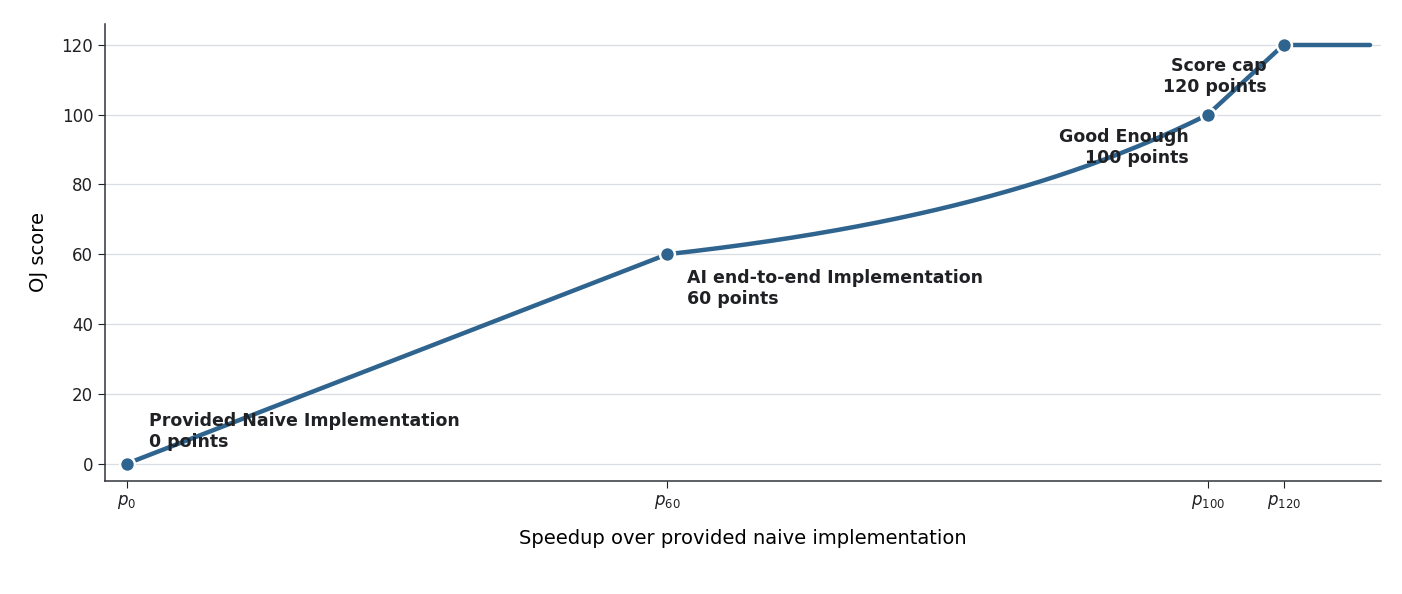
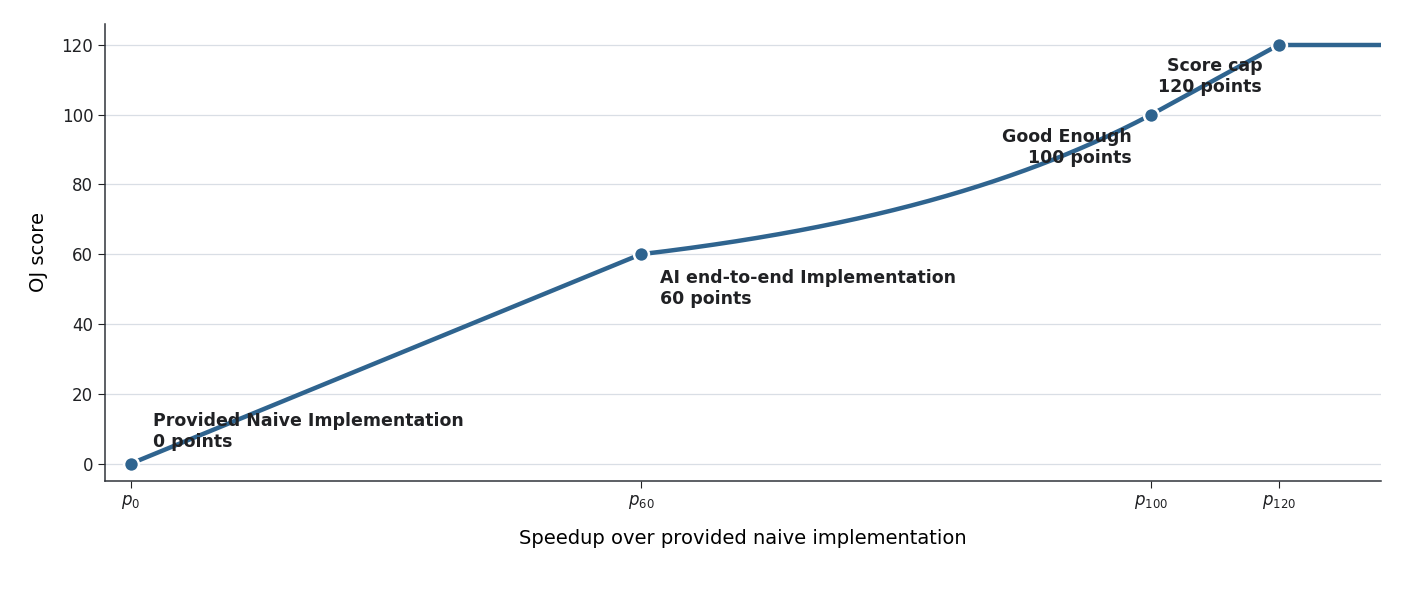
doc(lab2+lab3): update oj curve and polish some statements

diff --git a/docs/lab/Lab3-GDN-Prefill/index.md b/docs/lab/Lab3-GDN-Prefill/index.md
@@ -428,6 +428,28 @@ hpc submit -p lab3 "nsys profile -o <output_name> python evaluation/run.py"
 
 ## OJ 自动评测
 
+!!! info "OJ 评分指标"
+
+    OJ 总体采用与 Lab 2 类似的分段曲线进行评分。对于每个 case，横轴定义为提交实现相对于 100 分 checkpoint 的加速比：
+
+    $$
+    p=\frac{t_{100}}{t},
+    $$
+
+    其中，$t$ 为提交实现的核心计算时间，$t_{100}$ 为该 case 的最快的开源实现对应的运行时间。性能超过最快的开源实现时 $p>1$，并进入 100～120 分的奖励区间。60 分 turning point 为 $p_{60}=t_{100}/t_{60}$。
+
+    8 个公开 case 的 60 分和 100 分 turning point 如下，表中时间单位均为 ms：
+
+    | Checkpoint | `short_tail_state` | `chain_equal` | `parallel_equal` | `parallel_gva` | `long_low_gva` | `batch_split_gva` | `wide_gva_state` | `deep_gva_state` |
+    | --- | ---: | ---: | ---: | ---: | ---: | ---: | ---: | ---: |
+    | 60 分 | 0.573952 | 3.999968 | 2.017248 | 1.899072 | 15.825312 | 11.320448 | 20.600449 | 22.717567 |
+    | 100 分 | 0.346048 | 0.497792 | 0.511264 | 0.491552 | 1.858816 | 1.532128 | 2.426656 | 2.831104 |
+
+    此外，评测还包含未公开的隐藏 case。公开 case 与隐藏 case 的部分得分，均由各自包含的所有 case 得分取简单算术平均得到。最终得分由这两部分加权计算，其中公开 case 占 60%，隐藏 case 占 40%。
+
+
+
+
 !!! warning "施工中"
 
     目前 OJ 自动评测系统仍在建设中😭，我们会尽快发布。